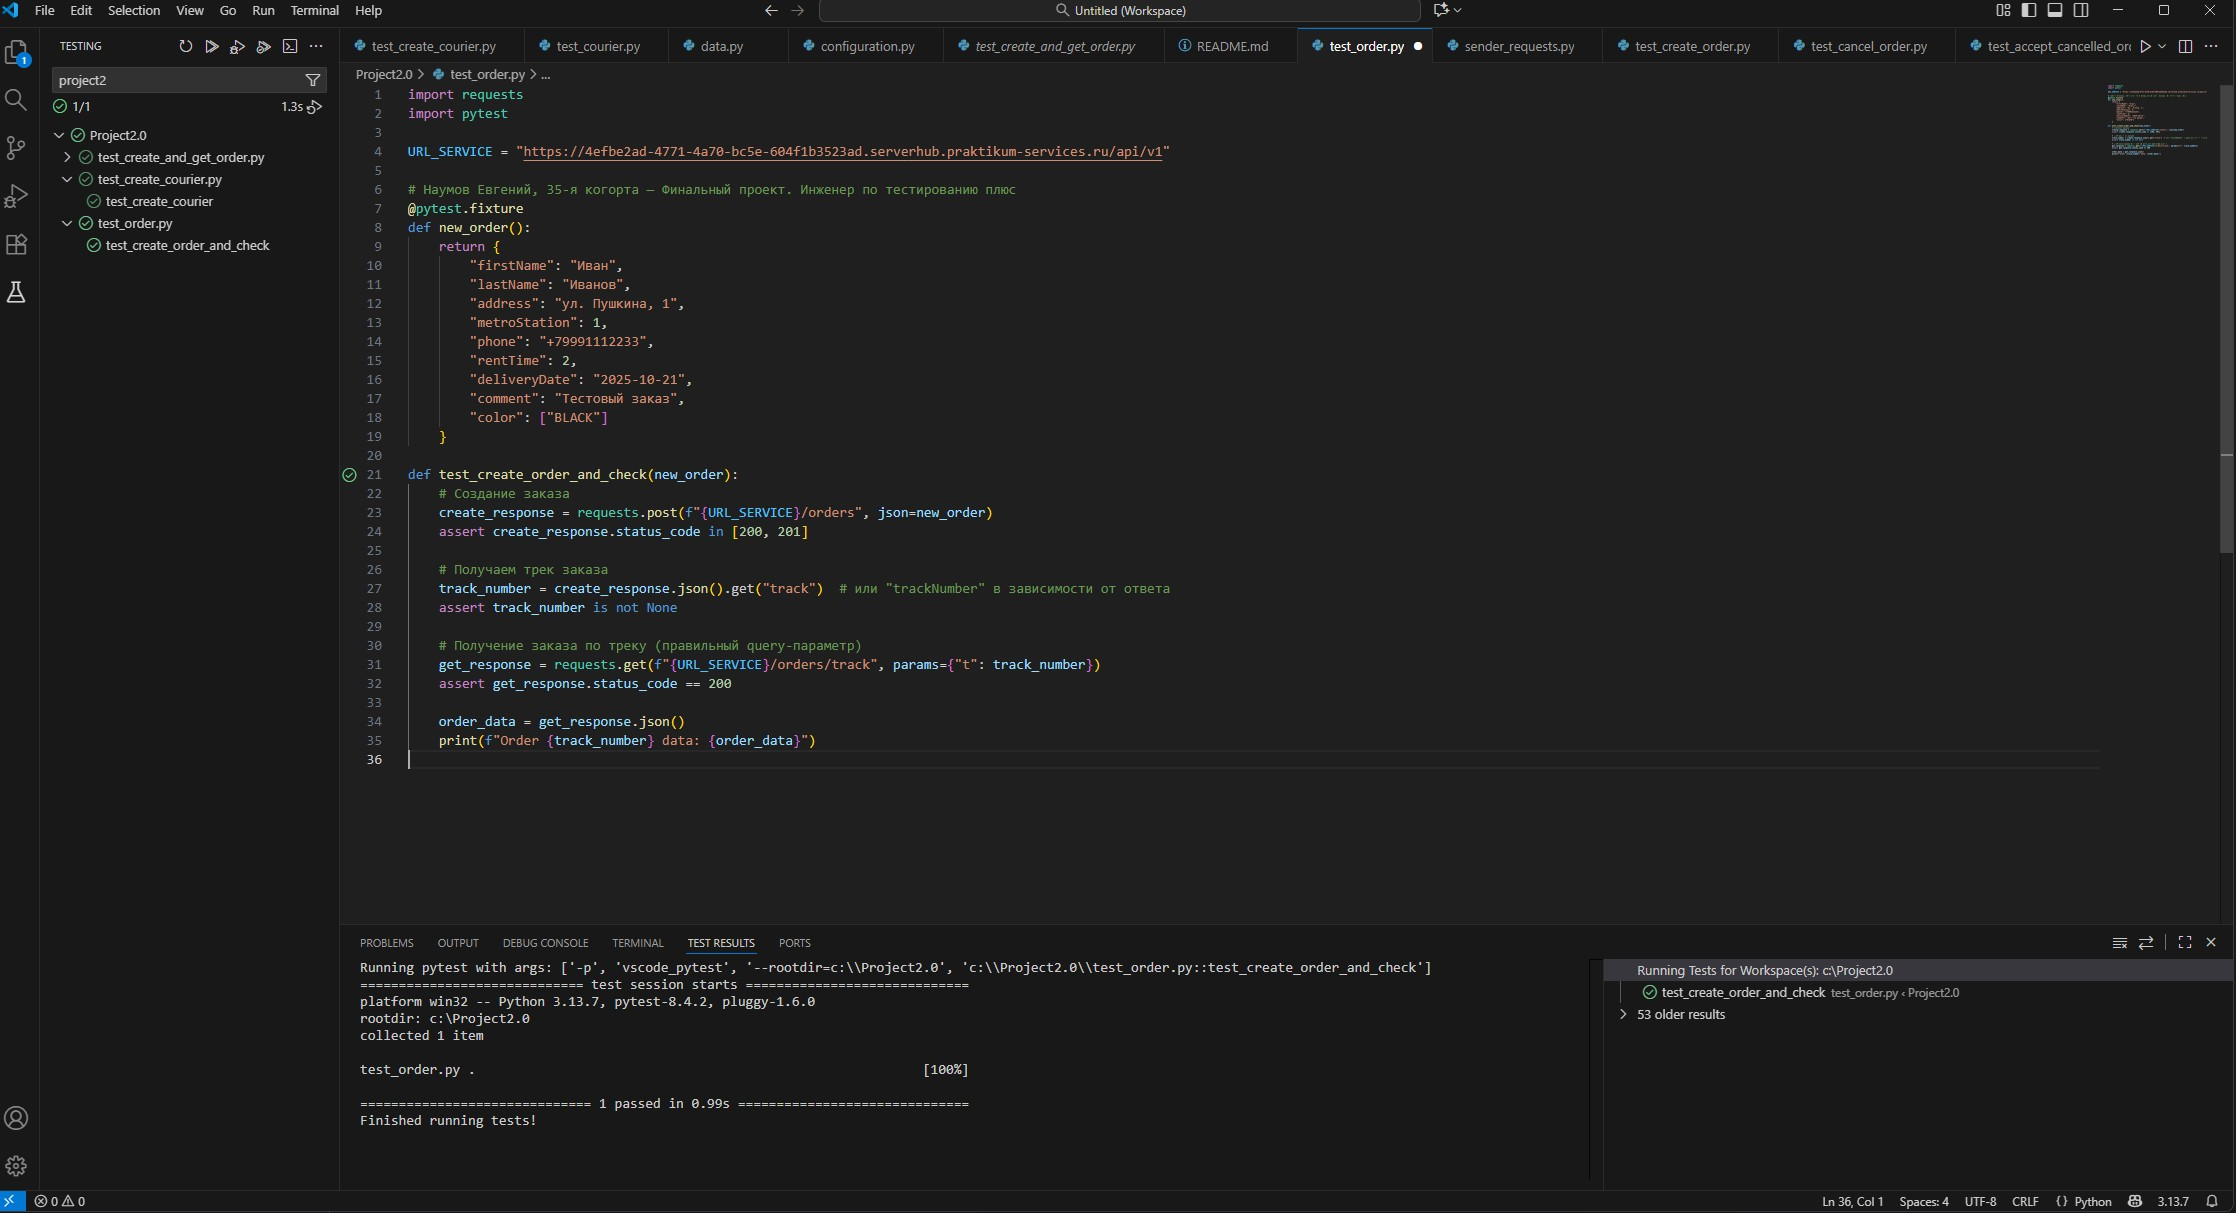
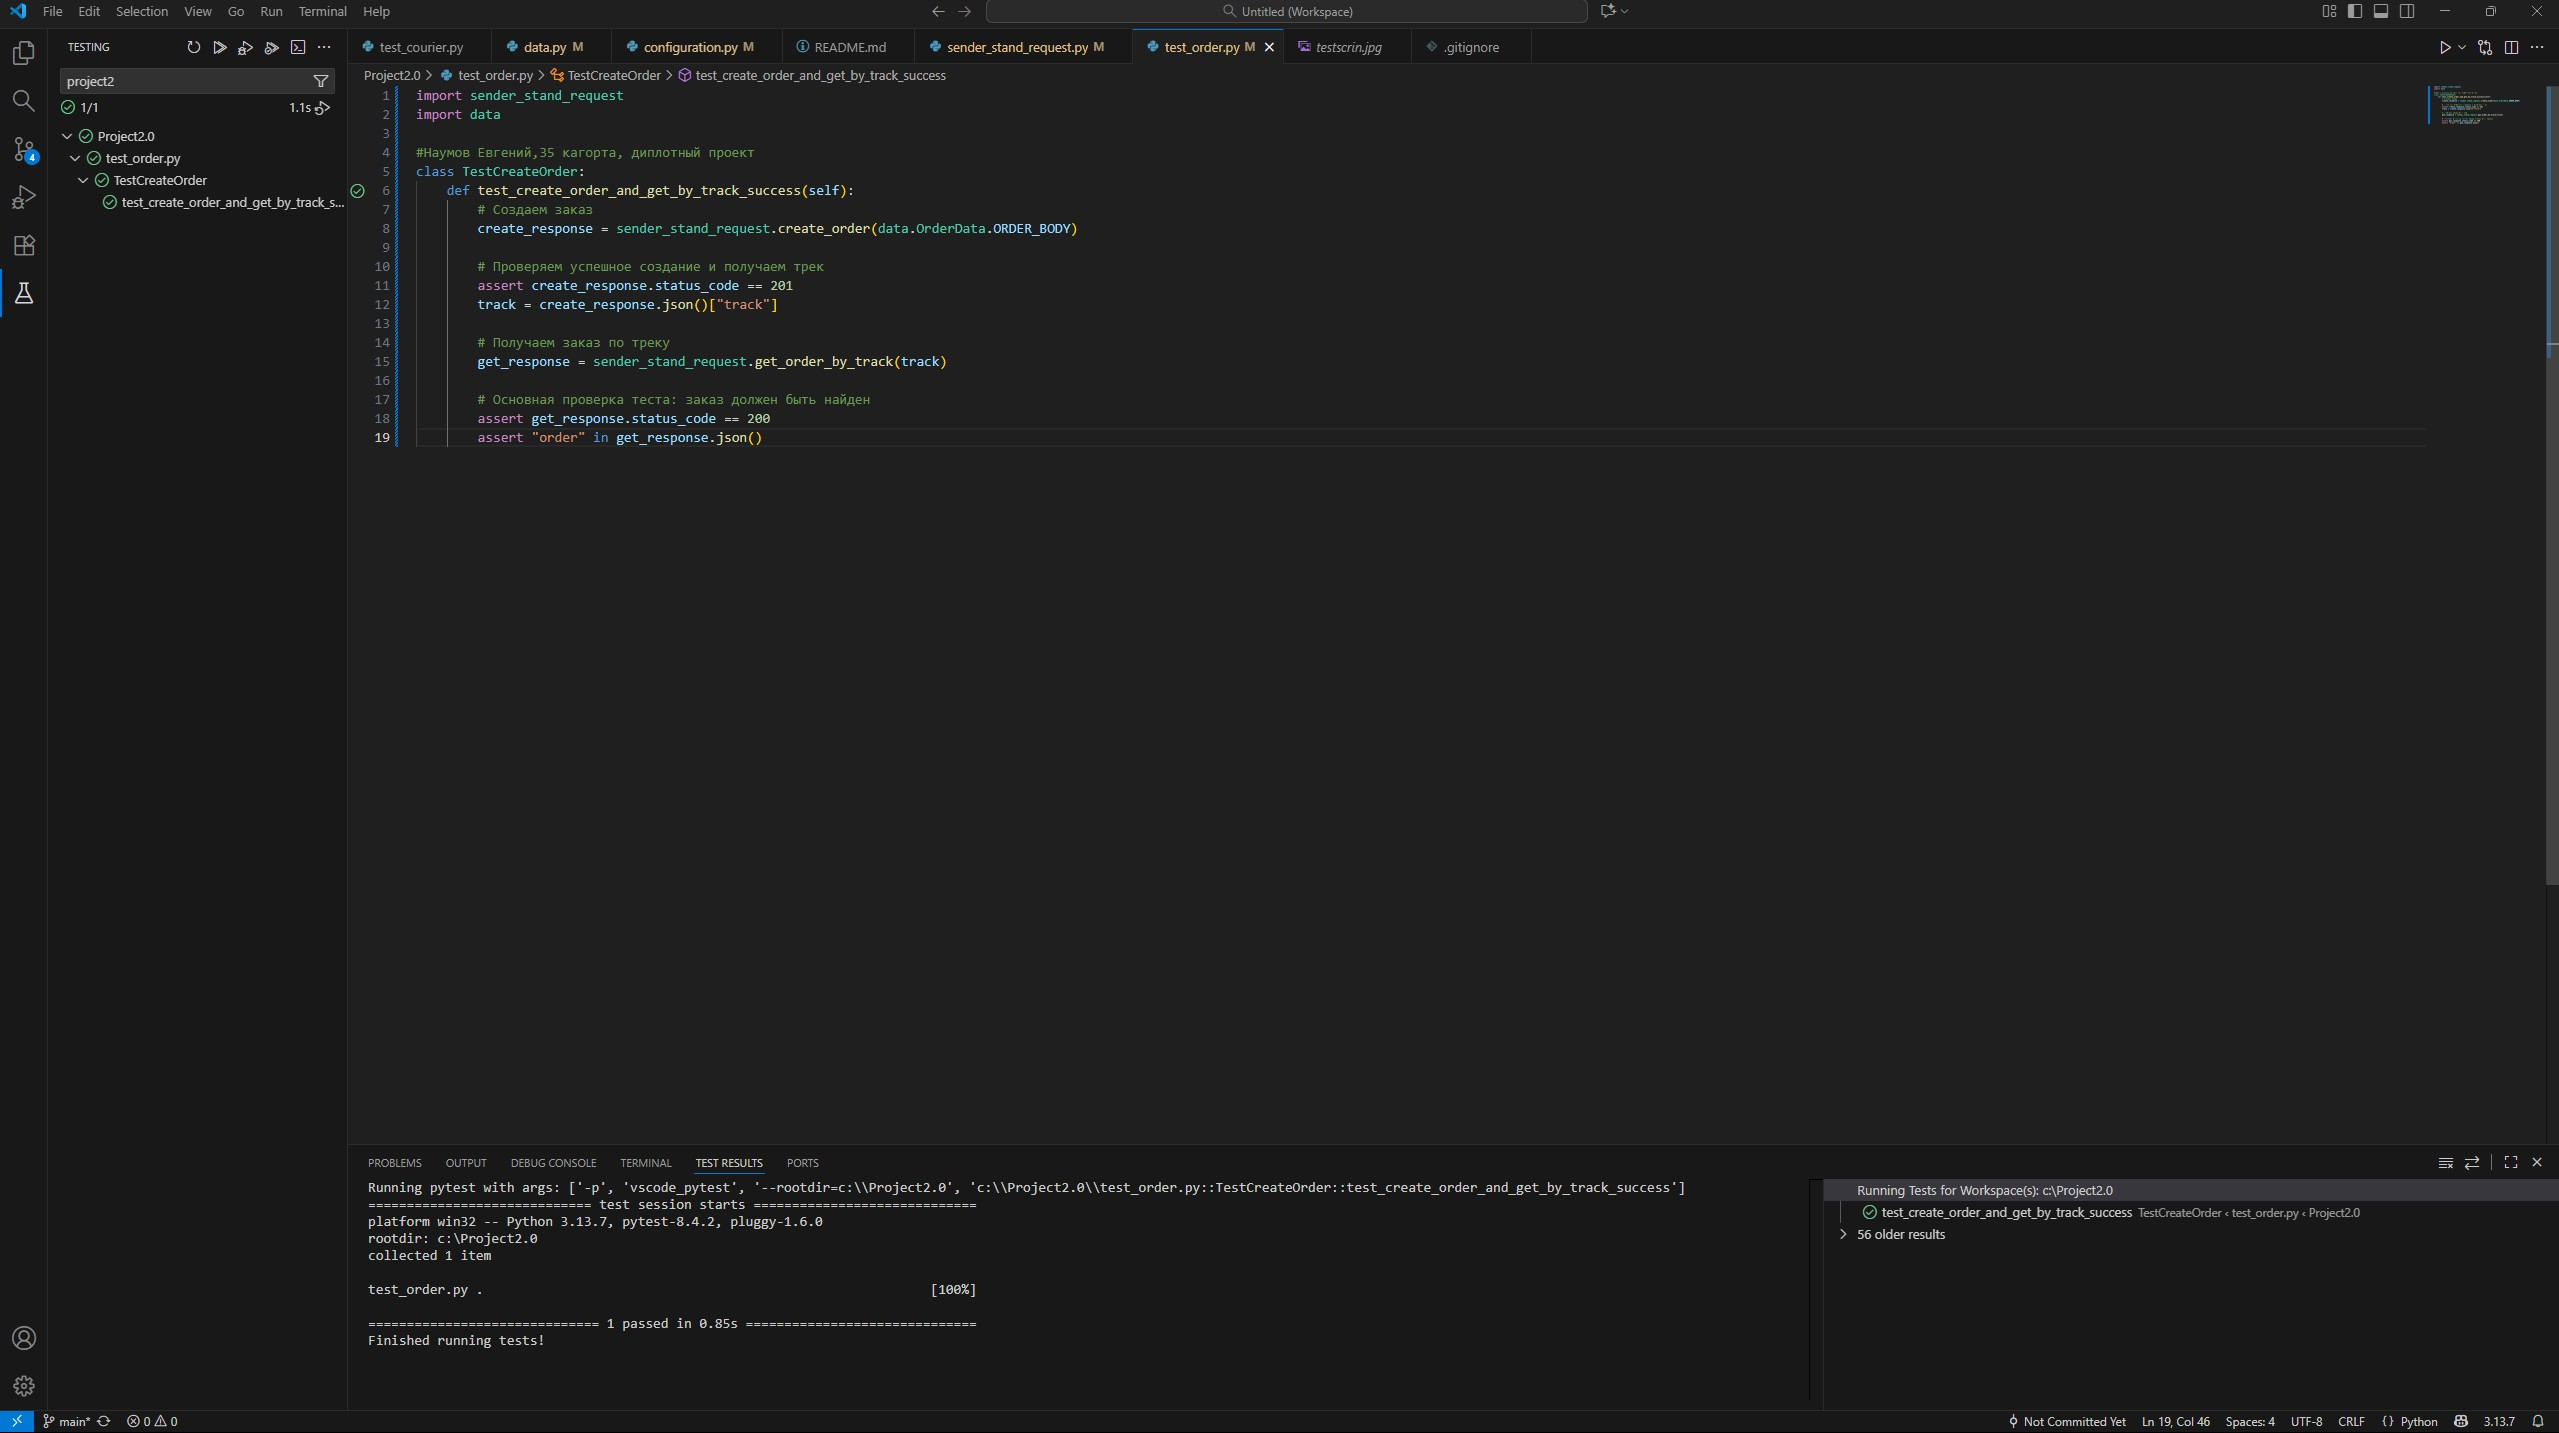
Исправления(надеюсь последние)

diff --git a/test_order.py b/test_order.py
@@ -1,34 +1,19 @@
-import requests
-import pytest
+import sender_stand_request
+import data
 
-URL_SERVICE = "https://4efbe2ad-4771-4a70-bc5e-604f1b3523ad.serverhub.praktikum-services.ru/api/v1"
-
-@pytest.fixture
-def new_order():
-    return {
-        "firstName": "Иван",
-        "lastName": "Иванов",
-        "address": "ул. Пушкина, 1",
-        "metroStation": 1,
-        "phone": "+79991112233",
-        "rentTime": 2,
-        "deliveryDate": "2025-10-21",
-        "comment": "Тестовый заказ",
-        "color": ["BLACK"]
-    }
-
-def test_create_order_and_check(new_order):
-    # Создание заказа
-    create_response = requests.post(f"{URL_SERVICE}/orders", json=new_order)
-    assert create_response.status_code in [200, 201]
-    
-    # Получаем трек заказа
-    track_number = create_response.json().get("track")  # или "trackNumber" в зависимости от ответа
-    assert track_number is not None
-
-    # Получение заказа по треку (правильный query-параметр)
-    get_response = requests.get(f"{URL_SERVICE}/orders/track", params={"t": track_number})
-    assert get_response.status_code == 200
-
-    order_data = get_response.json()
-    print(f"Order {track_number} data: {order_data}")
+#Наумов Евгений,35 кагорта, диплотный проект
+class TestCreateOrder:
+    def test_create_order_and_get_by_track_success(self):
+        # Создаем заказ
+        create_response = sender_stand_request.create_order(data.OrderData.ORDER_BODY)
+        
+        # Проверяем успешное создание и получаем трек
+        assert create_response.status_code == 201
+        track = create_response.json()["track"]
+        
+        # Получаем заказ по треку
+        get_response = sender_stand_request.get_order_by_track(track)
+        
+        # Основная проверка теста: заказ должен быть найден
+        assert get_response.status_code == 200
+        assert "order" in get_response.json()

diff --git a/data.py b/data.py
@@ -1,11 +1,12 @@
-order_body = {
-    "firstName": "Иван",
-    "lastName": "Петров",
-    "address": "Москва, Ленина 5",
-    "metroStation": 5,
-    "phone": "+79998887766",
-    "rentTime": 3,
-    "deliveryDate": "2025-10-20",
-    "comment": "Позвонить за 30 минут",
-    "color": ["BLACK"]
-}
+class OrderData:
+    ORDER_BODY = {
+        "firstName": "Иван",
+        "lastName": "Иванов", 
+        "address": "ул. Пушкина, 1",
+        "metroStation": 1,
+        "phone": "+79991112233",
+        "rentTime": 2,
+        "deliveryDate": "2025-10-21",
+        "comment": "Тестовый заказ",
+        "color": ["BLACK"]
+    }

diff --git a/sender_stand_request.py b/sender_stand_request.py
@@ -1,8 +1,8 @@
 import requests
 import configuration
 
-def post_new_order(order_body):
+def create_order(order_body):
     return requests.post(configuration.URL_SERVICE + configuration.PATH_CREATE_ORDER, json=order_body)
 
-def get_order_by_track(track_number):
-    return requests.get(configuration.URL_SERVICE + configuration.PATH_GET_ORDER + str(track_number))
+def get_order_by_track(track):
+    return requests.get(configuration.URL_SERVICE + configuration.PATH_GET_ORDER, params={"t": track})

diff --git a/configuration.py b/configuration.py
@@ -1,4 +1,3 @@
-URL_SERVICE = "https://4efbe2ad-4771-4a70-bc5e-604f1b3523ad.serverhub.praktikum-services.ru"
+URL_SERVICE = " https://f4a4e85a-b9a0-481d-a54f-121be6fd4cb5.serverhub.praktikum-services.ru"
 PATH_CREATE_ORDER = "/api/v1/orders"
-PATH_GET_ORDER = "/api/v1/orders/track?t="
-PATH_CREATE_COURIER = "/api/v1/couriers"
+PATH_GET_ORDER = "/api/v1/orders/track"
